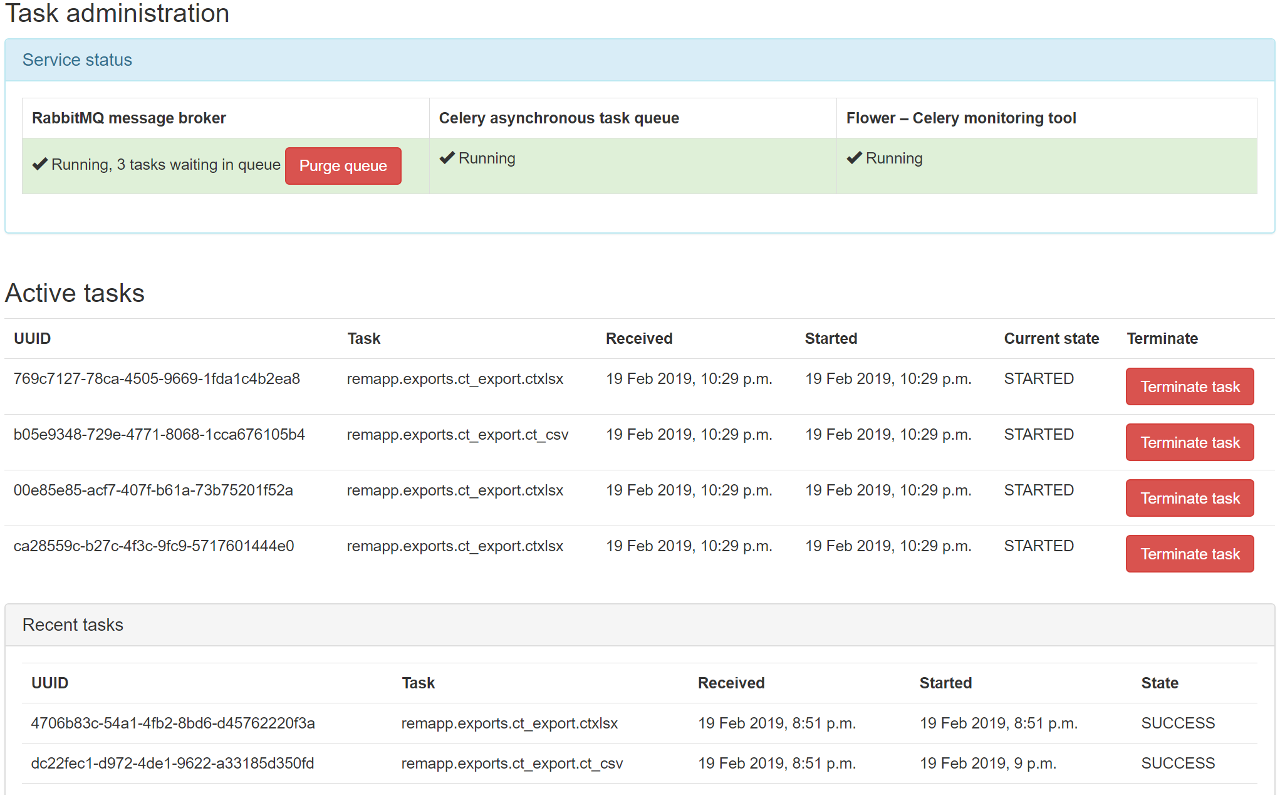
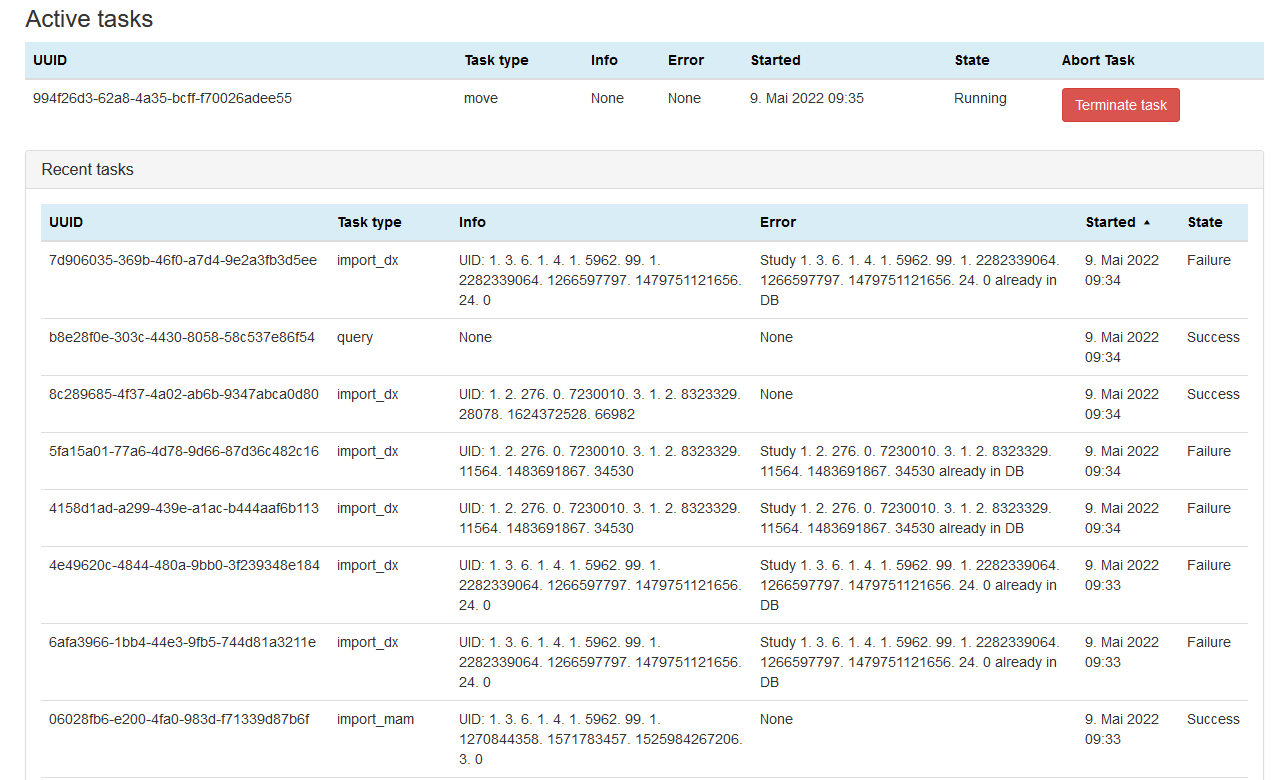
Updated the task-management page

diff --git a/docs/task-management.rst b/docs/task-management.rst
@@ -4,13 +4,6 @@ Task management
 
 .. contents::
 
-Enabling RabbitMQ management
-============================
-
-Installation instructions were added in 0.9.0. Users upgrading from previous versions should review
-:ref:`enableRabbitMQ`.
-
-
 Viewing task and service statuses
 =================================
 
@@ -23,12 +16,8 @@ Viewing task and service statuses
 
 Users who are logged in with admin rights can use the **Config** menu and choose **Tasks** to see the following:
 
-* The status of the task message broker, RabbitMQ
-* The status of the asynchronous task queue, Celery
-* The status of the Celery monitoring tool, Flower
-* How many tasks are waiting in RabbitMQ for a Celery worker to be available
-* A list of the tasks currently being managed by Celery
-* A list of previous tasks and their final status
+* A list of the tasks currently being executed
+* A list of previous tasks and their final status. If any errors occured they will be displayed here.
 
 .. figure:: img/tasks3waiting4inprogress.png
    :figwidth: 100%
@@ -37,69 +26,17 @@ Users who are logged in with admin rights can use the **Config** menu and choose
 
    Figure 2: The task administration page
 
-Service statuses
-================
-The current status of the services necessary to execute and monitor tasks is displayed in the first section of the page.
-
-RabbitMQ message broker
------------------------
-
-.. figure:: img/tasksrabbitstatuses.png
-   :figwidth: 50%
-   :align: right
-   :alt: RabbitMQ status
-
-   Figure 3: RabbitMQ statuses: failed; running, no tasks waiting; running, two tasks waiting
-
-When tasks are created, they are sent to Celery to be processed via a message broker, RabbitMQ. Therefore this service
-must be running for any of the asynchronous tasks to execute - for example query-retrieve operations and exports.
-Normal function is indicated with a green status and a tick.
-
-When there are Celery workers available to take tasks, they will be passed through immediately and the service status
-be green as seen in the middle image of Figure 3. When all the Celery workers are busy any additional tasks will be held
-with the RabbitMQ broker, and an option to purge the queue is made available as in the bottom image in Figure 3.
-
-Celery asynchronous task queue
-------------------------------
-
-.. figure:: img/taskscelerystatuses.png
-   :figwidth: 50%
-   :align: right
-   :alt: Celery status
-
-   Figure 4: Celery statuses: no RabbitMQ; not running; running
-
-Celery is used to manage the tasks that need to be carried out asynchronously. In OpenREM, these tend to be long running
-tasks such as exports and query-retrieve.
-
-If RabbitMQ is not running, we can't tell if Celery is running; this is indicated by the first panel in Figure 4. If
-RabbitMQ is running but Celery isn't, this is indicated by the middle panel in Figure 4.
-
-Finally, when Celery is running a green panel with a tick is presented.
-
-
-Flower - Celery monitoring tool
--------------------------------
-
-.. figure:: img/tasksflowerstatuses.png
-   :figwidth: 50%
-   :align: right
-   :alt: Flower status
-
-   Figure 5: Flower statuses: not running; running
-
-Flower enables monitoring of the Celery queues so we can see what is currently running, terminate if necessary, and
-maintain a log of previous tasks and how they finished. Flower logs are reset on restart of the service.
-
-If Flower is not running, the Flower status panel will look like the top half of Figure 5. If it is running, the panel
-will look like the bottom half of Figure 5.
-
-
 Terminating running tasks
 =========================
 
-Active tasks are listed after the service status section, as seen in Figure 2. The number of active tasks is limited by
-the number of workers you have configured - see :ref:`celery_concurrency` for details.
+Active tasks are listed after the service status section, as seen in Figure 2. 
 
 It is possible to terminate any running tasks by clicking the red button. There is no confirmation step.
+Note that this immediatly interrups everything this process was doing so far, leading to things like partially
+imported studies. In general this should not be an issue (in case of aborted imports e.g. they
+should be completed when you start importing them again), but note that there is a certain risk in killing tasks
+and use this only as a last resort.
 
+A note on move: Executing a move will create a task which then produces import tasks for all the studies it should
+import. This means if you intend to abort a move you should abort the task with Task type "move" and not the import
+tasks started by that process!
